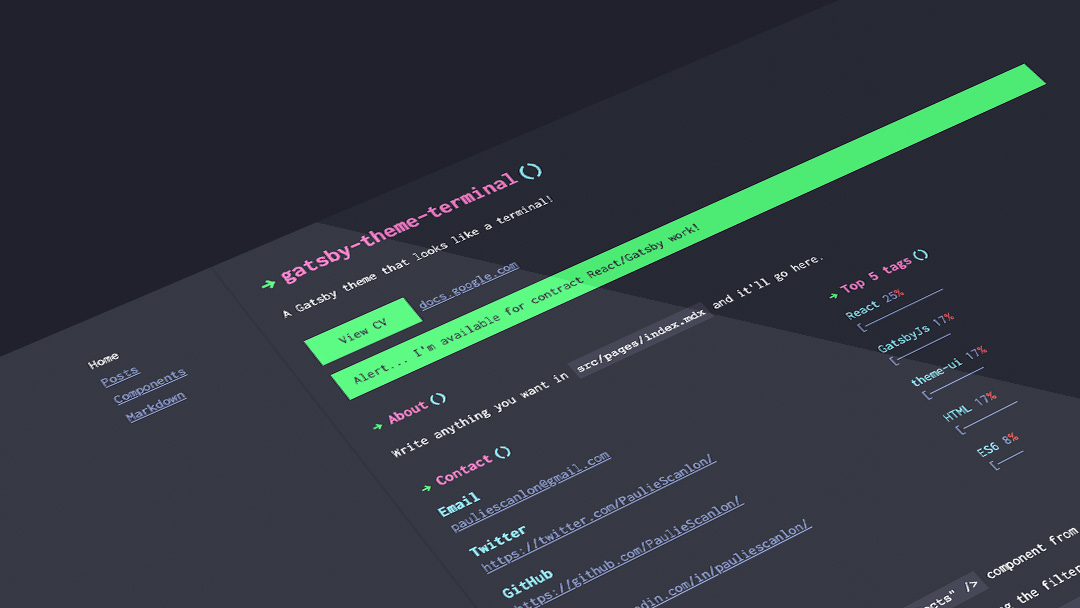
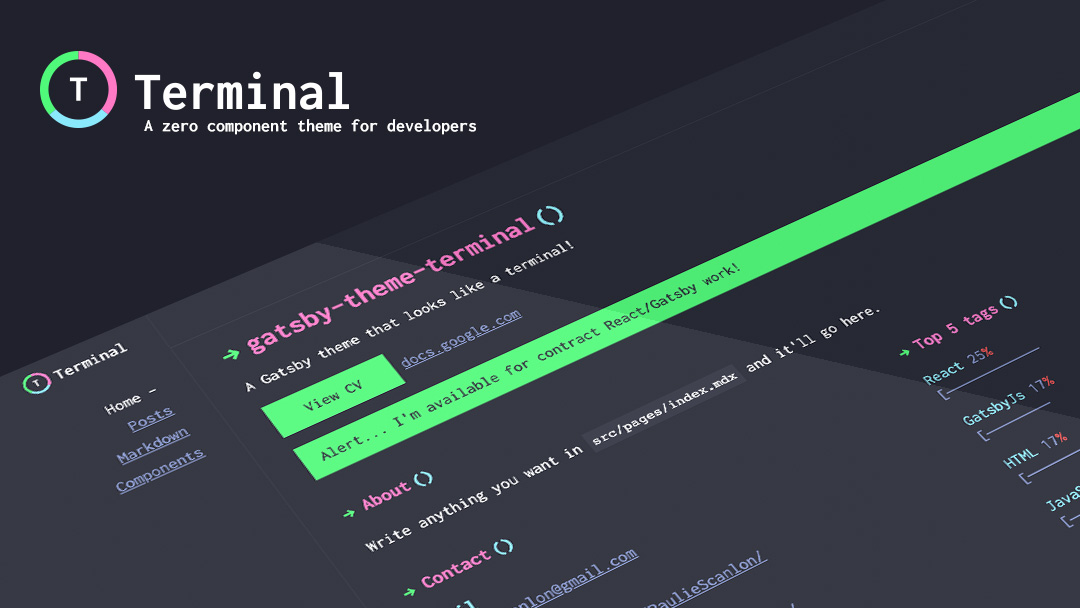
update og image

diff --git a/demo/gatsby-config.js b/demo/gatsby-config.js
@@ -1,7 +1,7 @@
 module.exports = {
   siteMetadata: {
     name: `gatsby-theme-terminal`,
-    description: `A Gatsby theme that looks like a terminal!`,
+    description: `A Zero Component theme for developers`,
     keywords: [`gatsby`, `gatsbyjs`, `gatsby-theme`],
     siteURL: `https://gatsby-theme-terminal.netlify.com`,
     siteImage: `images/terminal-open-graph-image.jpg`,
